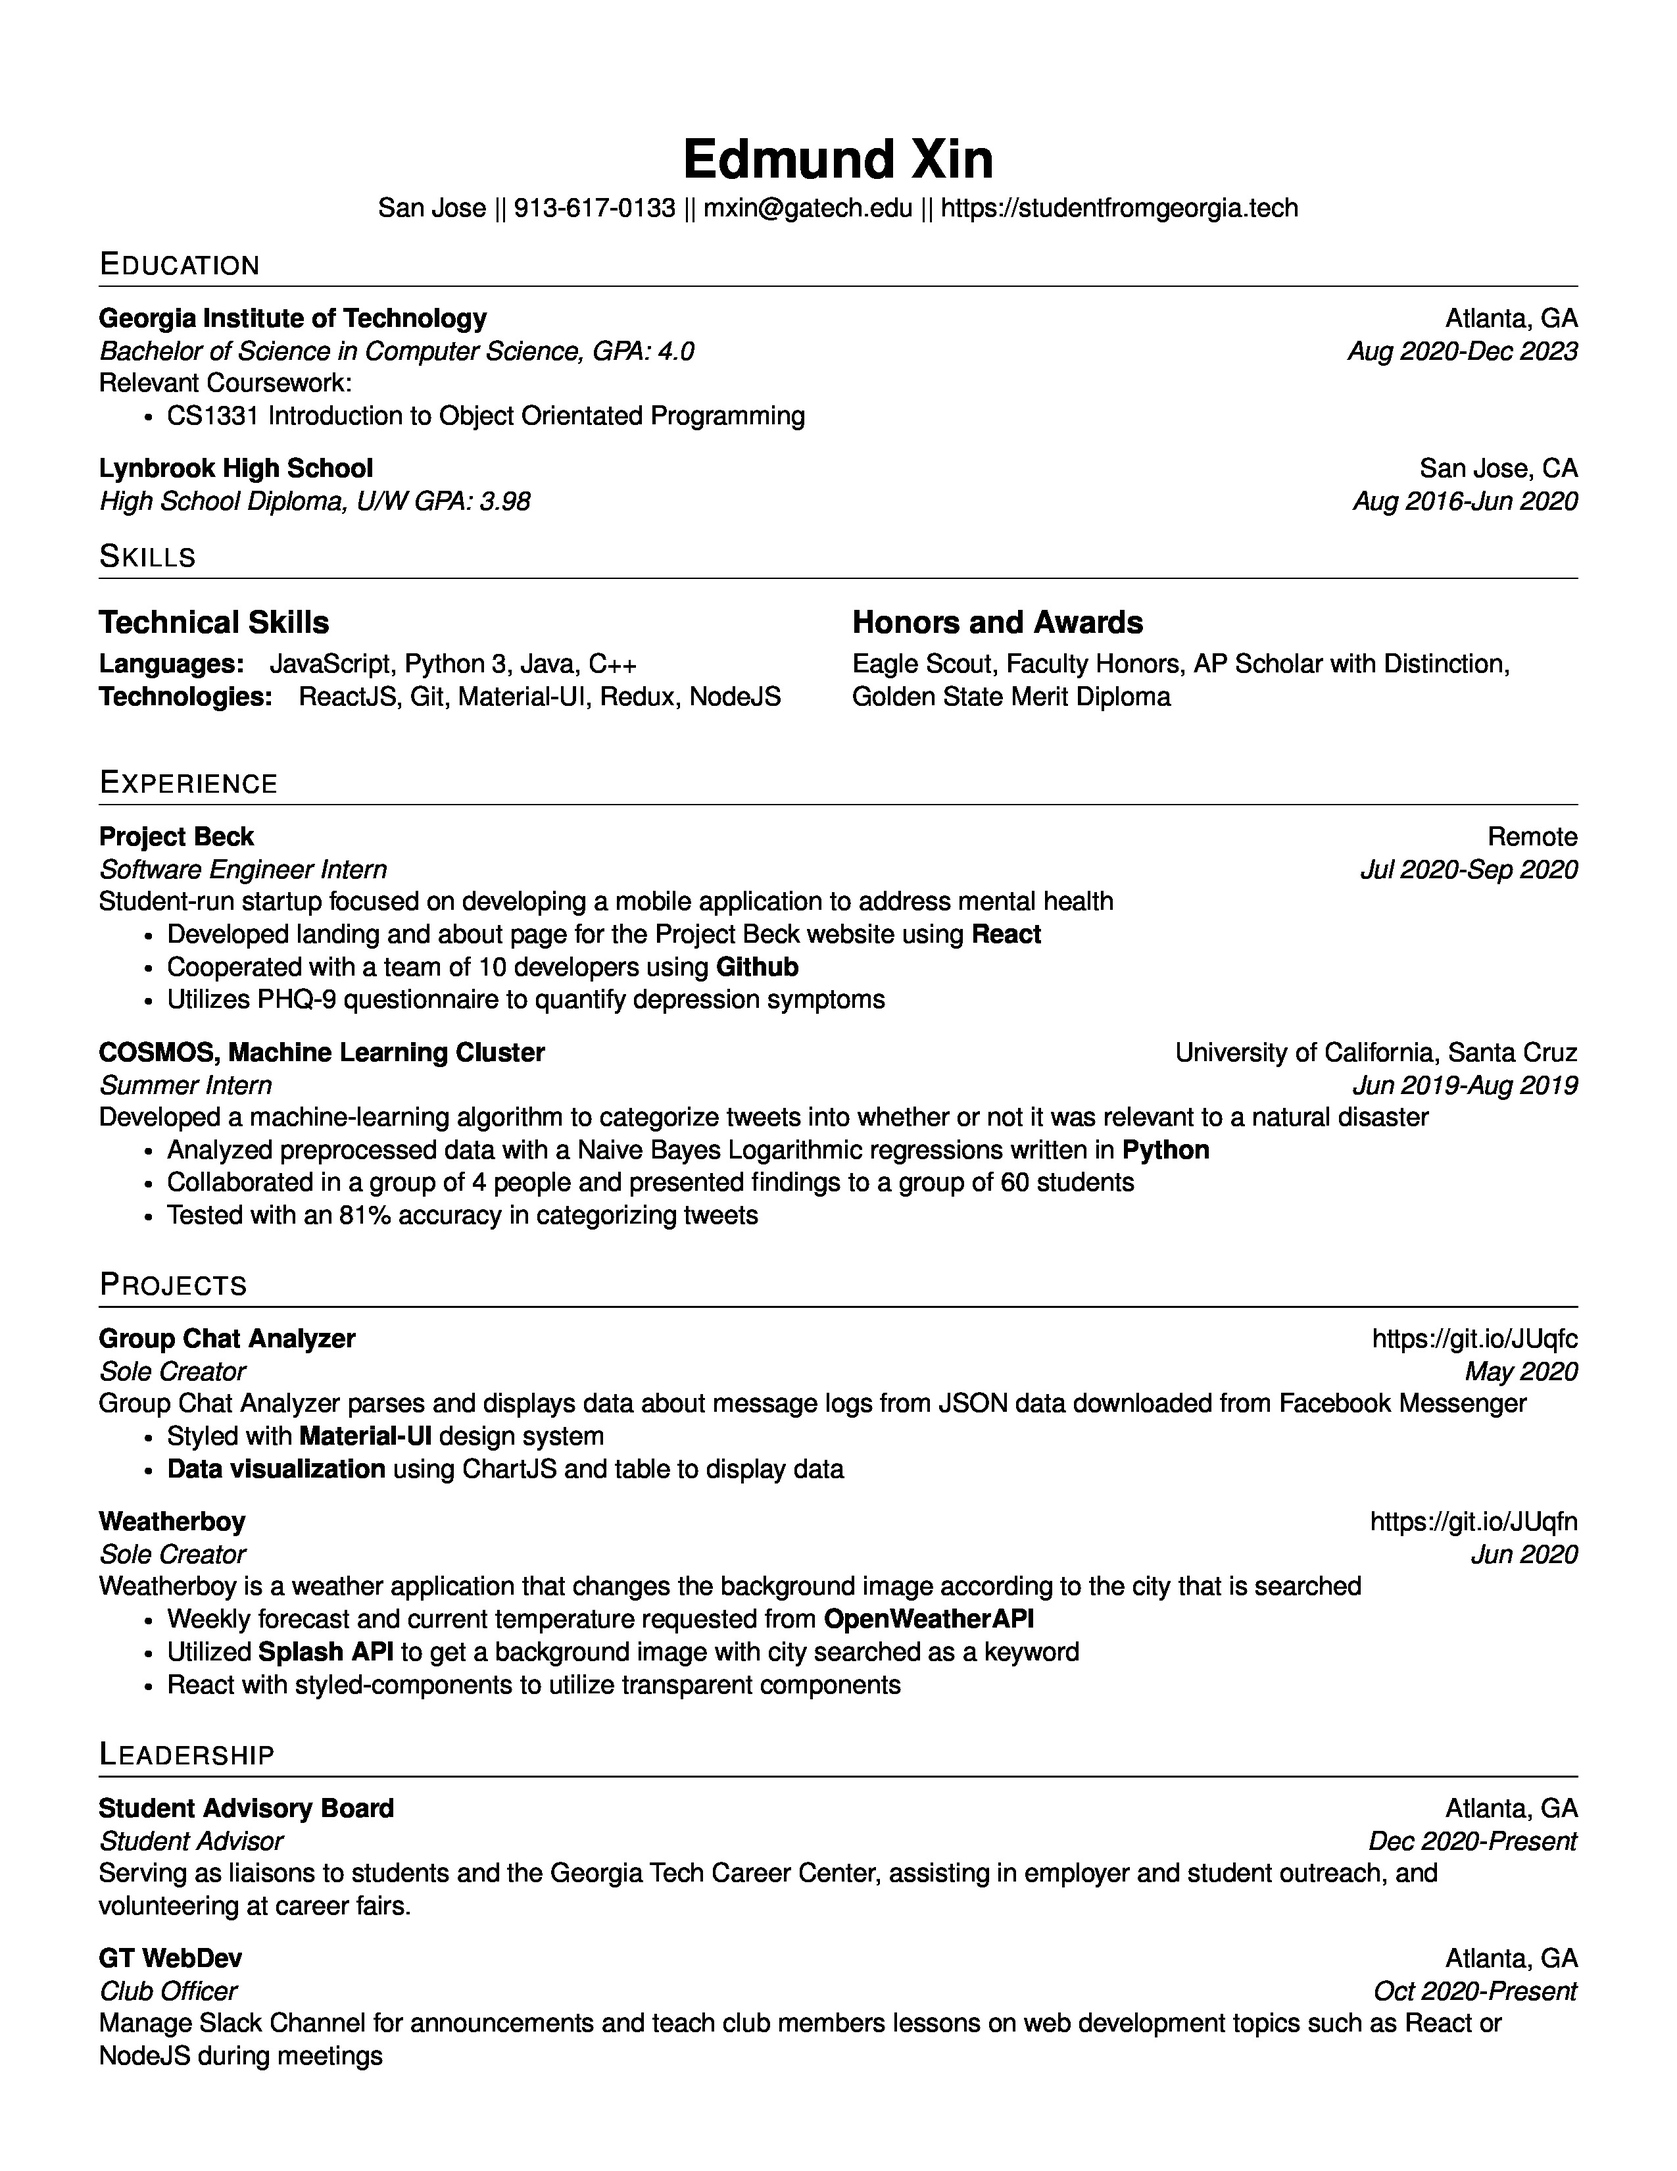
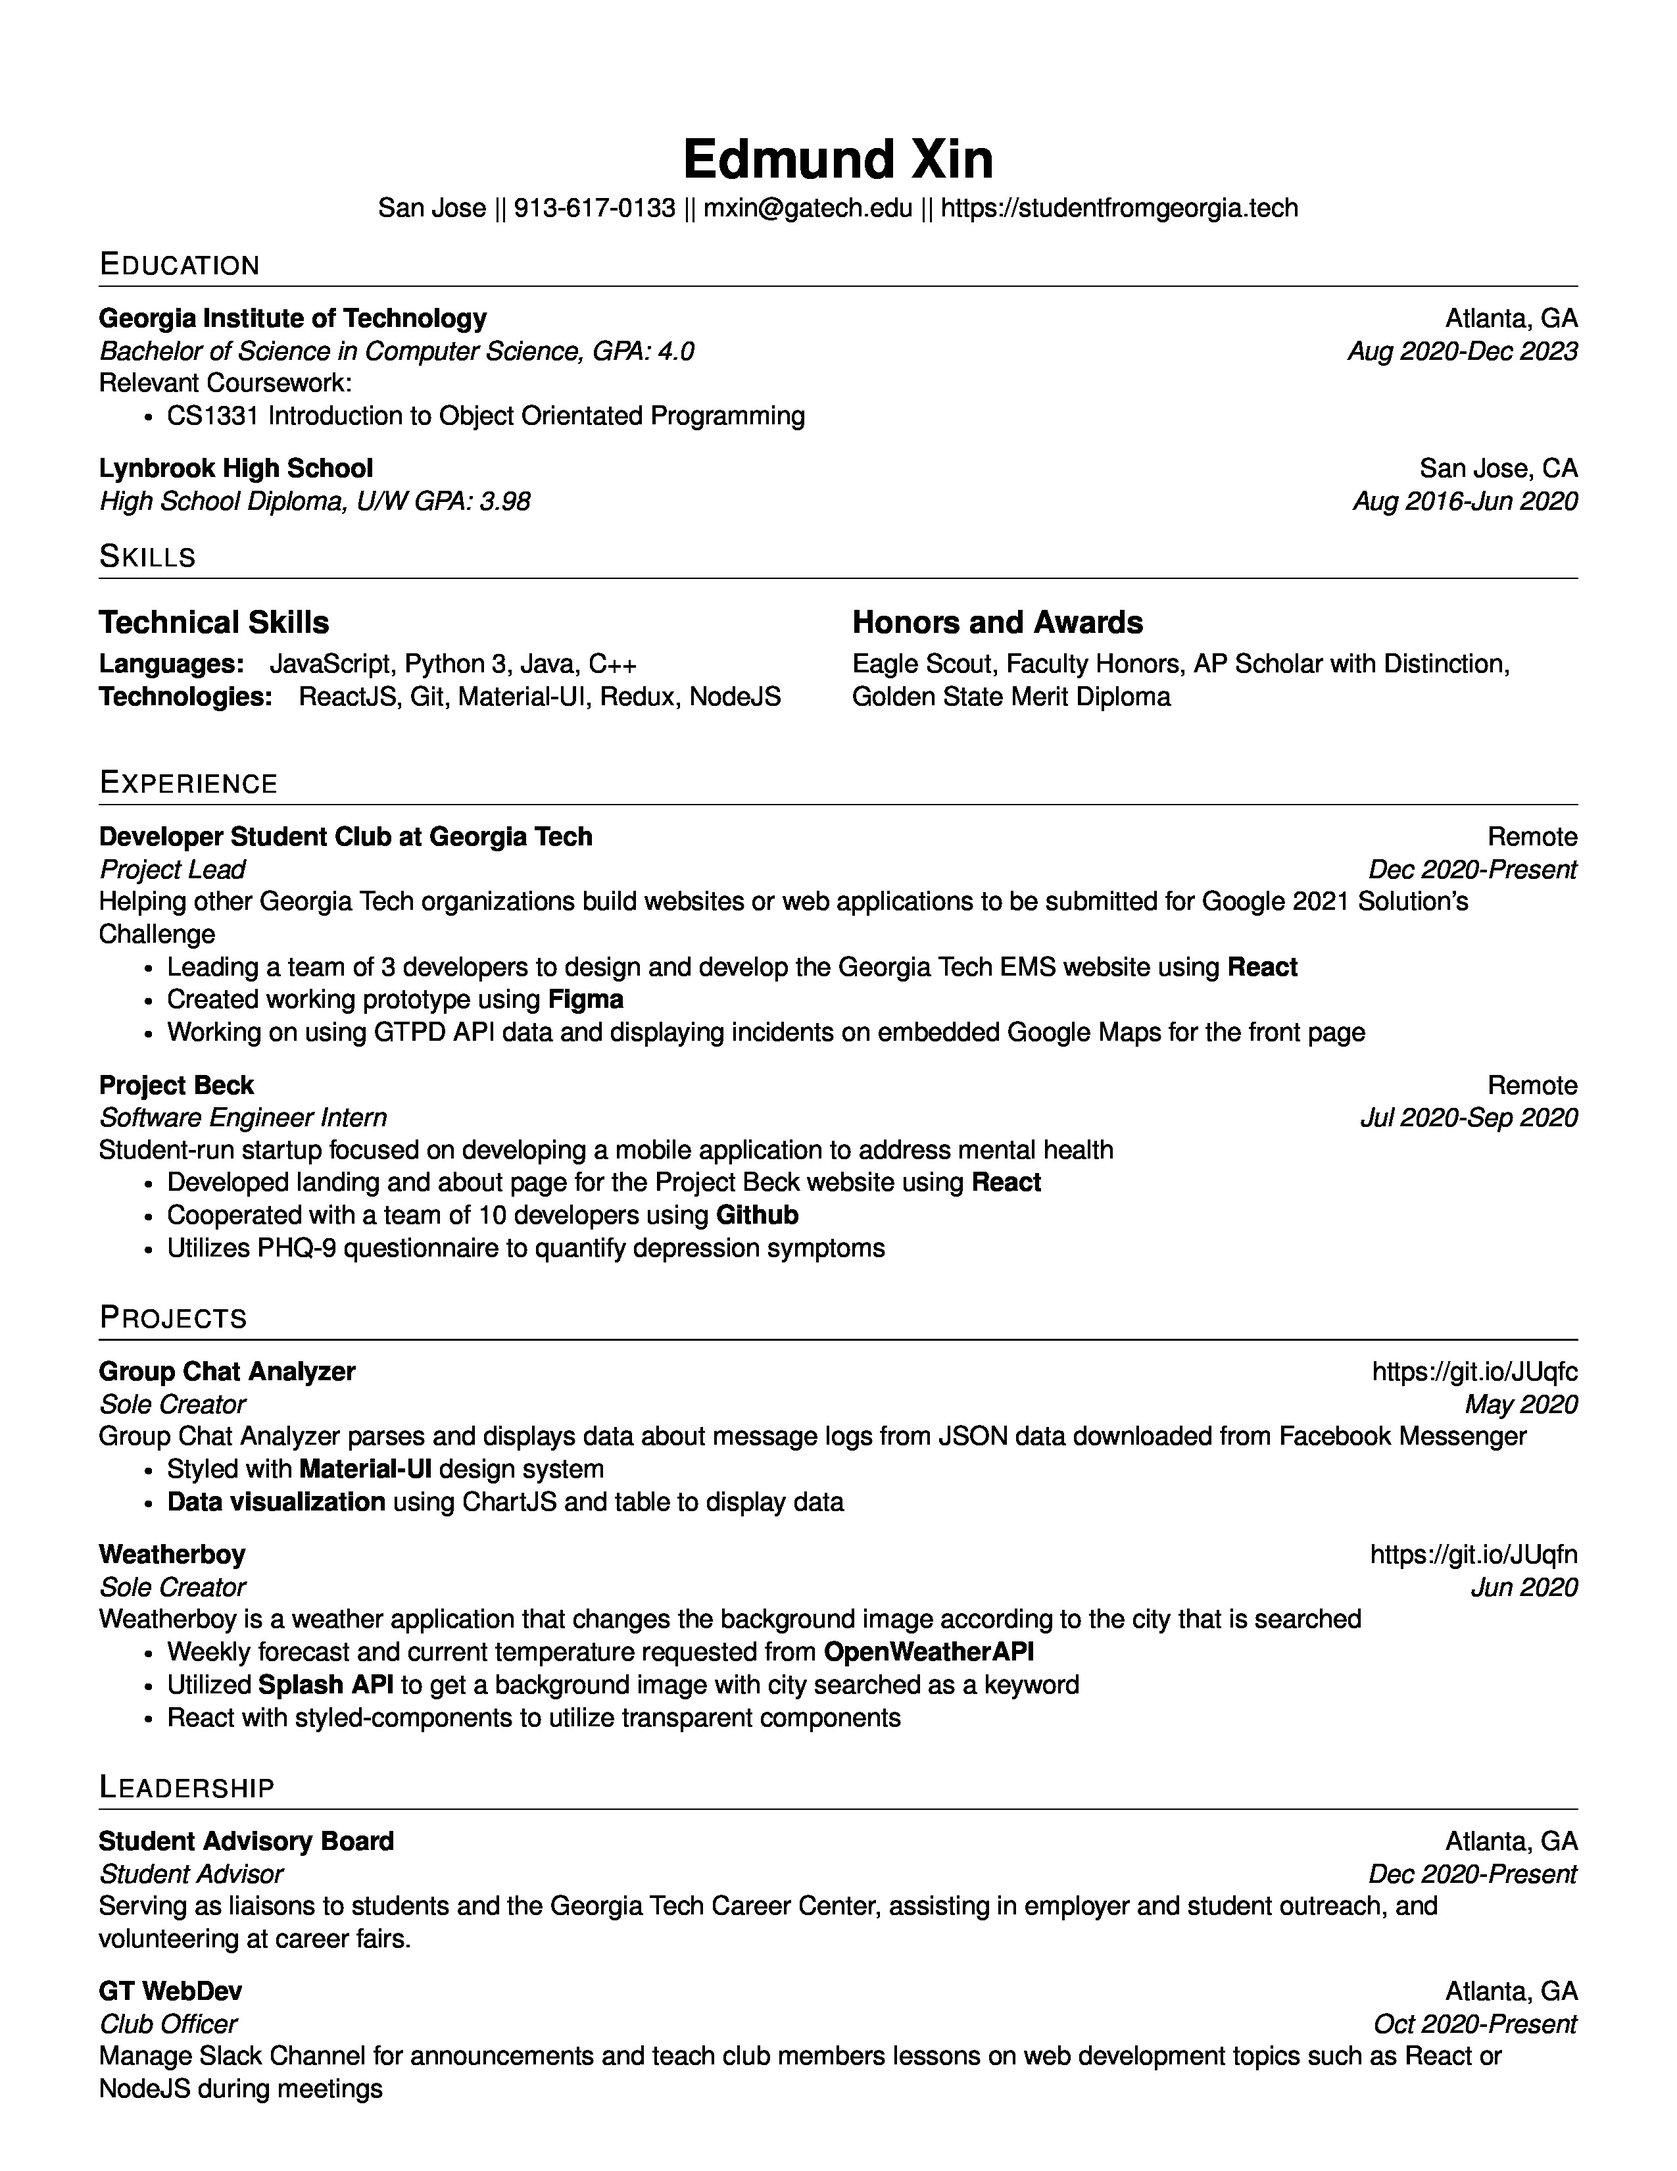
added project lead experience

diff --git a/resume.tex b/resume.tex
@@ -146,6 +146,18 @@ Eagle Scout, Faculty Honors, AP Scholar with Distinction, Golden State Merit Dip
 \vspace{5pt}
 \section{Experience}
 
+\resumeSubheading{Developer Student Club at Georgia Tech}{Remote}{Project Lead}{Dec 2020-Present}
+
+Helping other Georgia Tech organizations build websites or web applications to be submitted for Google 2021 Solution's Challenge
+
+\setlist{nolistsep}
+\begin{itemize}[label=\raisebox{0.25ex}{\tiny$\bullet$}]
+    \item Leading a team of 3 developers to design and develop the Georgia Tech EMS website using \textbf{React}
+    \item Created working prototype using \textbf{Figma}
+    \item Working on using GTPD API data and displaying incidents on embedded Google Maps for the front page
+\end{itemize}
+\vspace{5pt}
+
 \resumeSubheading{Project Beck}{Remote}{Software Engineer Intern}{Jul 2020-Sep 2020}
 
 Student-run startup focused on developing a mobile application to address mental health
@@ -155,19 +167,6 @@ Student-run startup focused on developing a mobile application to address mental
   \item Developed landing and about page for the Project Beck website using \textbf{React}
   \item Cooperated with a team of 10 developers using \textbf{Github}
   \item Utilizes PHQ-9 questionnaire to quantify depression symptoms
-\end{itemize}
-\vspace{5pt}
-
-\resumeSubheading{COSMOS, Machine Learning Cluster}
-{University of California, Santa Cruz}{Summer Intern}{Jun 2019-Aug 2019}
-
-Developed a machine-learning algorithm to categorize tweets into whether or not it was relevant to a natural disaster
-
-\setlist{nolistsep}
-\begin{itemize}[label=\raisebox{0.25ex}{\tiny$\bullet$}]
-  \item Analyzed preprocessed data with a Naive Bayes Logarithmic regressions written in \textbf{Python}
-  \item Collaborated in a group of 4 people and presented findings to a group of 60 students
-  \item Tested with an 81\% accuracy in categorizing tweets
 \end{itemize}
 \vspace{5pt}
 
